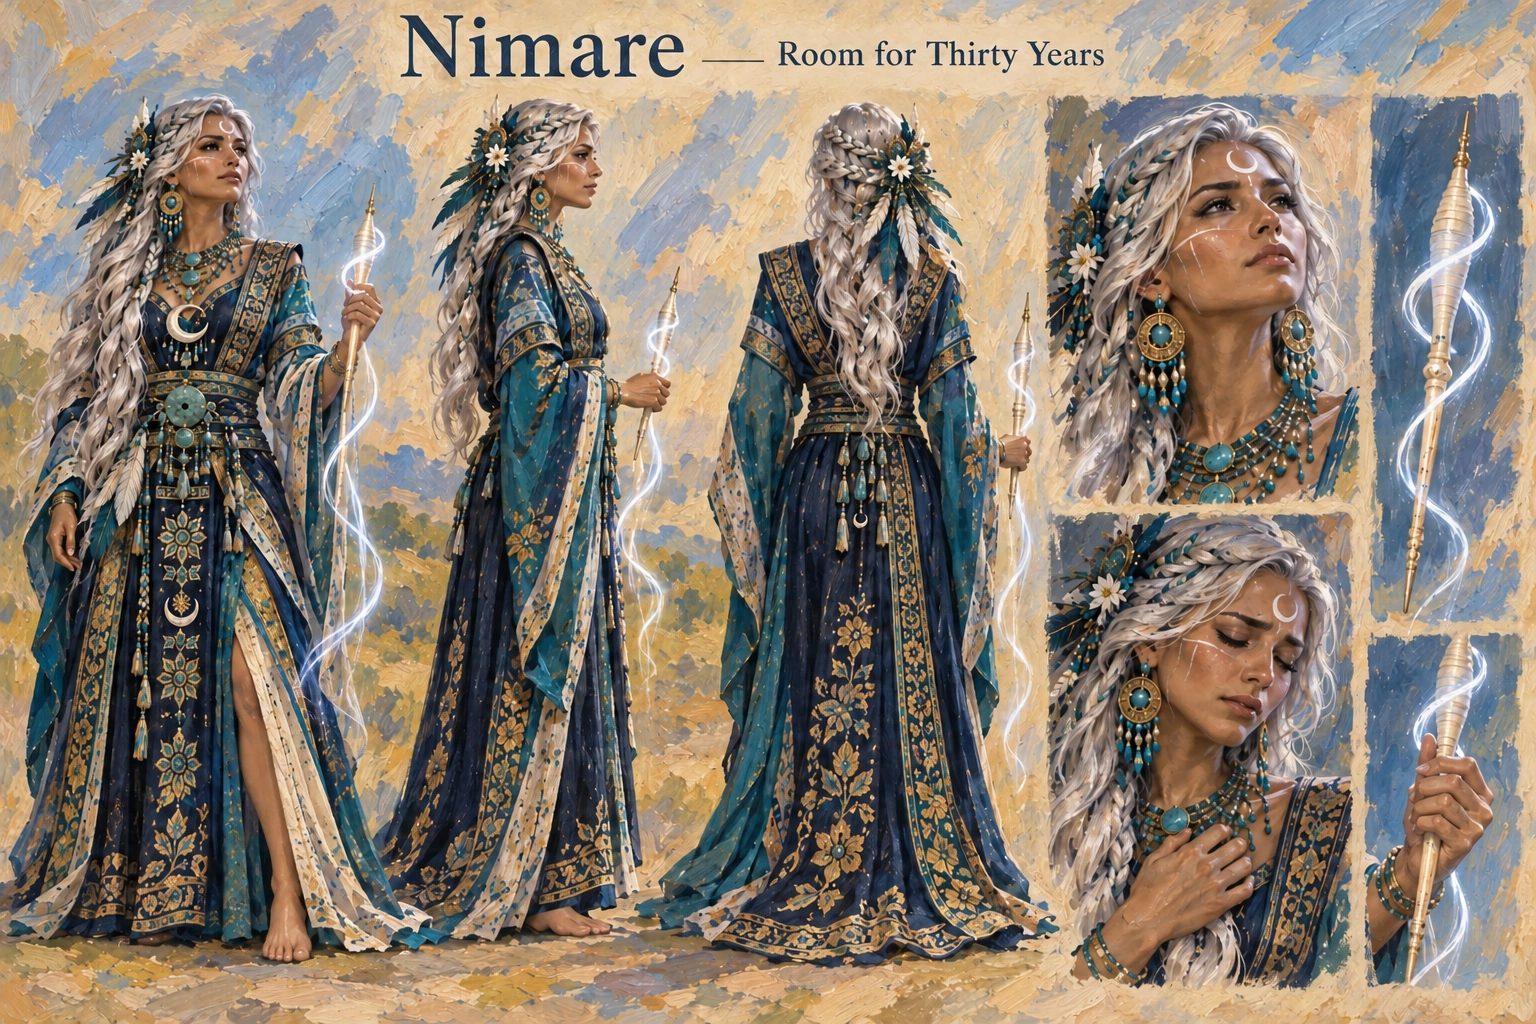
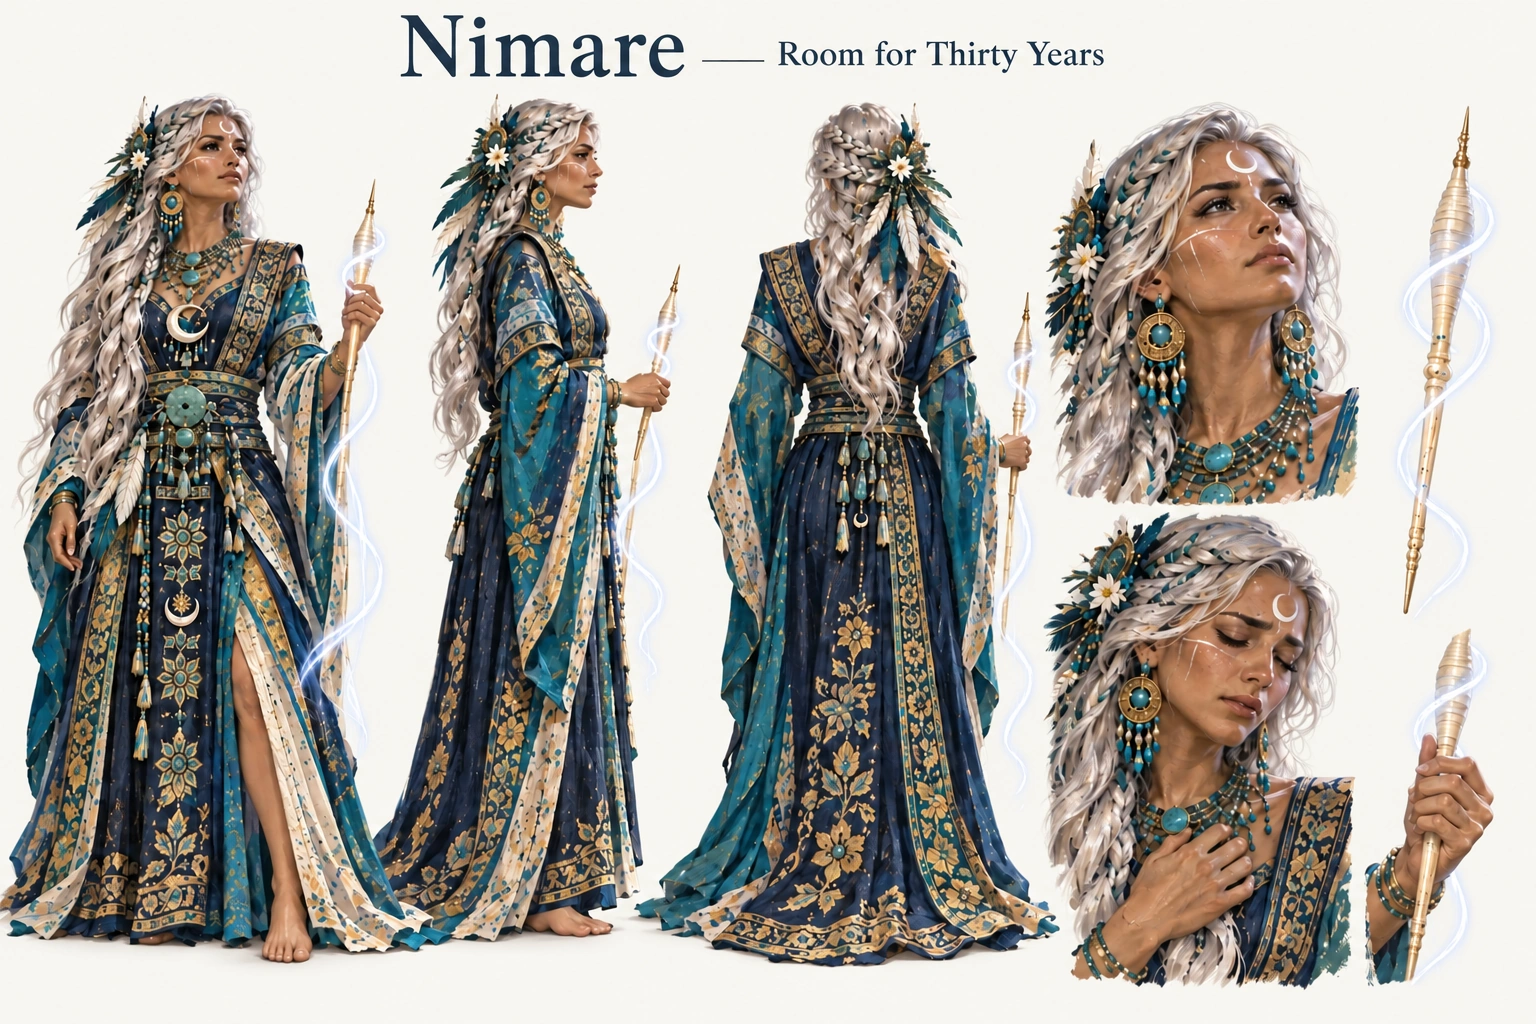
Clean character sheet backgrounds for clearer references

diff --git a/stories/the-moon-before-its-time/notes.md b/stories/the-moon-before-its-time/notes.md
@@ -25,3 +25,5 @@ The fresh final exchange supported naming Nimare and giving Odel the salt bowl's
 Prompt and continuity check: descent thirty years early is the inciting loss; Nimare is thirty-four, prepared for sixty-four. The bearer is living, keeping the magic compatible with shared authority; this local moon is not assigned a shared chronology or silently connected to earlier lunar stories. Name searches found no collisions. No shared-universe facts are added and the story remains non-canon.
 
 Art followed the final prose. Nimare, Odel, and Veya each have a labeled, consistent multi-view character sheet; the fitting room, upper temple terrace, and worn lunar chamber each have a separate location reference. The supplied original grounds Nimare and the jungle temple; the collection's Apple Orchard Hillside and The Stream After Ash informed the oil treatment. Actual saved pixels were inspected. Added sandals were removed from Nimare and missing window glass restored in the fitting room; superseded candidates stay in ignored worktree `tmp/`. Only after the full reference set was complete and inspected was the cover made from the original and accepted character/terrace references. Its saved 864×1536 JPEG has the exact title once, the same identities and clothing, a correctly sided non-graphic injury, a coherent sewing gesture, and a moon close above the terrace. The final reader also inspected it with the prose and found no clear mismatch. The coordinator rated the finished prose and cover General, for the non-graphic treatment, with injury, exhaustion, bereavement, and separation recorded specifically in `ratings.md`.
+
+2026-10-09, character-sheet art revision. The user found the backgrounds too busy. All three sheets now isolate their existing figures, expression studies, props, and headers on plain warm-white fields, with only small contact shadows beneath feet. Imagegen edited the backgrounds; the coordinator inspected the saved 1536×1024 WebP files for clean separation, readable labels, preserved identities and studies, bare feet, and Veya's correctly sided injury. The former scenic grounds and decorative background strokes were distracting from the sheets' reference purpose. Prior sheets and working candidates are retained under ignored `tmp/character-sheet-cleanup/`; Git also preserves the committed originals. The prose and cover were not revised.

diff --git a/stories/the-moon-before-its-time/prompt.md b/stories/the-moon-before-its-time/prompt.md
@@ -11,3 +11,7 @@
 # Audience and content direction
 
 No audience, length, or intensity requested. Start toward General; assign the final AO3 rating after prose and cover are finished. No further user constraints.
+
+# Later art feedback
+
+the character sheets have too much background in them they should be cleaner.
